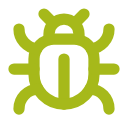
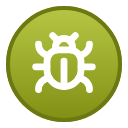
Deleted uploads in logs, type badges, card and F1 polish

diff --git a/src/events.ts b/src/events.ts
@@ -1,5 +1,7 @@
 import { report } from './ops.js';
-import { MessageType, Events, PermissionFlagsBits, type Client, type Message } from 'discord.js';
+import { AttachmentBuilder, MessageType, Events, PermissionFlagsBits, type Client, type EmbedBuilder, type Message } from 'discord.js';
+import { existsSync, mkdirSync, readdirSync, statSync, unlinkSync, writeFileSync } from 'node:fs';
+import { fileURLToPath } from 'node:url';
 import type { Store } from './db.js';
 import { log } from './modules/moderation.js';
 import { giveXp } from './modules/levels.js';
@@ -88,23 +90,33 @@ export function wireEvents(client: Client, store: Store) {
     void log(client, store, m.guild.id, card({ kind: 'logs', title, emoji, gif: 'off', fields: [{ name: '👤 Who', value: `<@${m.id}> · ${m.user.username}`, inline: true }, { name: '📍 Room', value: where, inline: true }] }), 'server');
   });
 
-  // messages are kept for three days on disk, a restart no longer means an edit or delete goes unlogged
+  // messages are kept for three days on disk, pictures and files too, so a restart or a deleted upload still gets logged
   client.on(Events.MessageCreate, (m) => {
-    if (m.guildId && !m.author.bot && m.content && logOn(store, m.guildId)) store.keepMessage(m.id, m.guildId, m.channelId, m.author.id, m.content);
+    if (!m.guildId || m.author.bot || (!m.content && !m.attachments.size) || !logOn(store, m.guildId)) return;
+    store.keepMessage(m.id, m.guildId, m.channelId, m.author.id, m.content ?? '');
+    if (m.attachments.size) void keepFiles(m.id, [...m.attachments.values()]).then((files) => { if (files.length) store.keepMessage(m.id, m.guildId!, m.channelId, m.author.id, m.content ?? '', files); });
   });
-  setInterval(() => store.dropOldMessages(3), 3_600_000).unref();
+  setInterval(() => { store.dropOldMessages(3); dropOldFiles(3); }, 3_600_000).unref();
+
+  const filesOf = (kept: { files: { name: string; path: string }[] } | undefined) => (kept?.files ?? []).filter((f) => existsSync(f.path)).map((f) => new AttachmentBuilder(f.path, { name: f.name }));
 
   client.on(Events.MessageDelete, (m) => {
     const kept = store.recallMessage(m.id);
     store.forgetMessage(m.id);
     const guildId = m.guildId ?? kept?.guild_id ?? null;
-    const content = m.content || kept?.content;
+    const content = m.content || kept?.content || '';
     const author = m.author?.id ?? kept?.author_id;
-    if (!logOn(store, guildId) || m.author?.bot || !content || !author) return;
-    void log(client, store, guildId!, card({
-      kind: 'logs', title: 'Message deleted', emoji: '', gif: 'off',
-      fields: [{ name: 'Author', value: `<@${author}>`, inline: true }, { name: 'Where', value: `<#${m.channelId}>`, inline: true }, { name: 'Sent', value: kept ? `<t:${Math.floor(kept.at / 1000)}:R>` : 'recently', inline: true }, { name: 'It said', value: content.slice(0, 1000), inline: false }],
-    }), 'server');
+    const files = filesOf(kept);
+    if (!logOn(store, guildId) || m.author?.bot || (!content && !files.length) || !author) return;
+    const e = card({
+      kind: 'logs', title: files.length && !content ? 'Upload deleted' : 'Message deleted', emoji: '', gif: 'off',
+      fields: [
+        { name: 'Author', value: `<@${author}>`, inline: true }, { name: 'Where', value: `<#${m.channelId}>`, inline: true }, { name: 'Sent', value: kept ? `<t:${Math.floor(kept.at / 1000)}:R>` : 'recently', inline: true },
+        ...(content ? [{ name: 'It said', value: content.slice(0, 1000), inline: false }] : []),
+        ...(files.length ? [{ name: files.length === 1 ? 'Attached' : `Attached · ${files.length}`, value: (kept?.files ?? []).map((f) => f.name).join('\n').slice(0, 1000), inline: false }] : []),
+      ],
+    });
+    void logWithFiles(client, store, guildId!, e, files);
   });
 
   client.on(Events.MessageBulkDelete, (msgs, ch) => {
@@ -114,7 +126,8 @@ export function wireEvents(client: Client, store: Store) {
       store.forgetMessage(m.id);
       const content = m.content || kept?.content;
       const author = m.author?.id ?? kept?.author_id;
-      if (content && author && !m.author?.bot) lines.push(`<@${author}>: ${content.replace(/\n/g, ' ').slice(0, 120)}`);
+      const n = kept?.files.length ?? m.attachments.size;
+      if ((content || n) && author && !m.author?.bot) lines.push(`<@${author}>: ${(content ?? '').replace(/\n/g, ' ').slice(0, 120)}${n ? ` · ${n} file${n === 1 ? '' : 's'}` : ''}`);
     }
     if (!lines.length || !logOn(store, ch.guildId)) return;
     void log(client, store, ch.guildId, card({ kind: 'logs', title: `${msgs.size} messages swept`, emoji: '', gif: 'off', body: `In <#${ch.id}>\n${lines.slice(0, 25).join('\n').slice(0, 3800)}${lines.length > 25 ? `\n-# and ${lines.length - 25} more` : ''}` }), 'server');
@@ -122,17 +135,24 @@ export function wireEvents(client: Client, store: Store) {
 
   client.on(Events.MessageUpdate, (old, m) => {
     const kept = store.recallMessage(m.id);
-    const before = old.content || kept?.content;
+    const before = old.content || kept?.content || '';
     const guildId = m.guildId ?? kept?.guild_id ?? null;
-    if (m.content && guildId && !m.author?.bot) store.keepMessage(m.id, guildId, m.channelId, m.author?.id ?? kept?.author_id ?? '', m.content);
-    if (!logOn(store, guildId) || m.author?.bot || !before || before === m.content) return;
-    void log(client, store, guildId!, card({
-      kind: 'logs', title: 'Message edited', emoji: '', gif: 'off',
+    if (!guildId || m.author?.bot) return;
+    // files taken off in the edit: anything kept that the message no longer has
+    const now = new Set([...m.attachments.values()].map((a) => a.name));
+    const gone = (kept?.files ?? []).filter((f) => !now.has(f.name));
+    store.keepMessage(m.id, guildId, m.channelId, m.author?.id ?? kept?.author_id ?? '', m.content ?? '', (kept?.files ?? []).filter((f) => now.has(f.name)));
+    const textChanged = !!before && before !== (m.content ?? '');
+    if (!logOn(store, guildId) || (!textChanged && !gone.length)) return;
+    const e = card({
+      kind: 'logs', title: textChanged ? 'Message edited' : 'Upload removed in an edit', emoji: '', gif: 'off',
       fields: [
         { name: 'Author', value: `<@${m.author?.id ?? kept?.author_id}>`, inline: true }, { name: 'Where', value: `[jump](${m.url})`, inline: true },
-        { name: 'Before', value: before.slice(0, 1000), inline: false }, { name: 'After', value: (m.content ?? '').slice(0, 1000) || '*empty*', inline: false },
+        ...(textChanged ? [{ name: 'Before', value: before.slice(0, 1000), inline: false }, { name: 'After', value: (m.content ?? '').slice(0, 1000) || '*empty*', inline: false }] : []),
+        ...(gone.length ? [{ name: 'Taken off', value: gone.map((f) => f.name).join('\n').slice(0, 1000), inline: false }] : []),
       ],
-    }), 'server');
+    });
+    void logWithFiles(client, store, guildId, e, gone.filter((f) => existsSync(f.path)).map((f) => new AttachmentBuilder(f.path, { name: f.name })));
   });
 
   client.on(Events.GuildBanAdd, (b) => {
@@ -141,4 +161,36 @@ export function wireEvents(client: Client, store: Store) {
   client.on(Events.GuildBanRemove, (b) => {
     if (logOn(store, b.guild.id)) void log(client, store, b.guild.id, card({ kind: 'unban', title: 'Unbanned', emoji: '🕊', gif: 'off', fields: [{ name: '👤 Who', value: `${b.user.username} (\`${b.user.id}\`)`, inline: true }] }));
   });
+}
+
+// copies of what people upload, kept three days so a deleted picture can still be shown in the log
+const fileDir = fileURLToPath(new URL('../cache/uploads/', import.meta.url));
+const MAX_FILE = 8 * 1024 * 1024;
+async function keepFiles(id: string, list: { url: string; name: string; size: number }[]) {
+  mkdirSync(fileDir, { recursive: true });
+  const out: { name: string; path: string }[] = [];
+  for (const [i, a] of list.slice(0, 4).entries()) {
+    if (a.size > MAX_FILE) continue;
+    const res = await fetch(a.url).catch(() => null);
+    if (!res?.ok) continue;
+    const path = `${fileDir}${id}-${i}-${a.name.replace(/[^\w.-]/g, '_').slice(-60)}`;
+    writeFileSync(path, Buffer.from(await res.arrayBuffer()));
+    out.push({ name: a.name, path });
+  }
+  return out;
+}
+function dropOldFiles(days: number) {
+  if (!existsSync(fileDir)) return;
+  const cutoff = Date.now() - days * 86_400_000;
+  for (const f of readdirSync(fileDir)) { try { if (statSync(`${fileDir}${f}`).mtimeMs < cutoff) unlinkSync(`${fileDir}${f}`); } catch { /* gone already */ } }
+}
+// the log entry with the kept files attached, the first picture shown in the card itself
+async function logWithFiles(client: Client, store: Store, guildId: string, e: EmbedBuilder, files: AttachmentBuilder[]) {
+  if (!files.length) return log(client, store, guildId, e, 'server');
+  const id = store.getKv(`serverlog:${guildId}`) ?? store.guild(guildId).mod.logChannel;
+  const ch = id ? await client.channels.fetch(id).catch(() => null) : null;
+  if (!ch?.isSendable()) return;
+  const pic = files.find((f) => /\.(png|jpe?g|gif|webp)$/i.test(f.name ?? ''));
+  if (pic) e.setImage(`attachment://${pic.name}`);
+  await ch.send({ embeds: [e], files, allowedMentions: { parse: [] } }).catch(() => {});
 }

diff --git a/src/features/rankcard.ts b/src/features/rankcard.ts
@@ -27,6 +27,8 @@ export interface RankCardData {
   need: number;
   nextRank: string | null;
   boost: number;
+  // what the next rank opens up in chat, like "threads, polls"
+  nextUnlock?: string | null;
 }
 
 // cuts long names with an ellipsis so they never run into the stats
@@ -156,8 +158,26 @@ export async function rankCard(d: RankCardData): Promise<Buffer> {
   ctx.fillStyle = '#c9ccd4';
   ctx.fillText(`${short(d.into)} / ${short(d.need)} xp  ·  ${short(d.totalXp)} total`, left, by + bh + 32);
   ctx.textAlign = 'right';
-  ctx.fillStyle = d.boost > 1 ? '#f0b85a' : '#8b8f9a';
-  ctx.fillText(d.boost > 1 ? `${+d.boost.toFixed(2)}x boost active` : d.nextRank ? `next: ${d.nextRank}` : 'top of the Agency', right, by + bh + 32);
+  ctx.fillStyle = SAND;
+  ctx.fillText(d.nextRank ? `next: ${d.nextRank}` : 'top of the Agency', right, by + bh + 32);
+  // what the next rank unlocks, quietly underneath
+  if (d.nextRank && d.nextUnlock) {
+    ctx.font = '400 15px "Texz Sans", sans-serif';
+    ctx.fillStyle = '#8b8f9a';
+    ctx.fillText(fit(ctx, `unlocks ${d.nextUnlock}`, bw * 0.6), right, by + bh + 56);
+  }
+  // an xp boost shows as a pill by the agency mark
+  if (d.boost > 1) {
+    ctx.font = '700 14px "Texz Sans Bold", sans-serif';
+    const tag = `${+d.boost.toFixed(2)}× XP BOOST`;
+    const tw = ctx.measureText(tag).width + 24;
+    rounded(ctx, right - tw, 18, tw, 26, 13);
+    ctx.fillStyle = 'rgba(240,184,90,0.16)';
+    ctx.fill();
+    ctx.fillStyle = '#f0b85a';
+    ctx.textAlign = 'center';
+    ctx.fillText(tag, right - tw / 2, 36);
+  }
 
   // a quiet signature in the corner
   ctx.textAlign = 'left';
@@ -192,6 +212,8 @@ export interface ProfileData {
   medalCount?: { won: number; total: number };
   // favourite team, club, anime and manga drawn as glowing tiles with their logo or cover
   favs?: Fav[];
+  // level progress, a thin bar under the bio
+  progress?: { into: number; need: number; next: string | null };
 }
 
 export interface Fav { label: string; name: string; image?: string | null; color?: string | null; kind: 'badge' | 'crest' | 'cover' }
@@ -360,6 +382,30 @@ export async function profileCard(d: ProfileData): Promise<Buffer> {
   ctx.font = '400 21px "Texz Sans", sans-serif';
   const lines = wrap(ctx, d.bio || 'No bio yet. A person of mystery.', right - left, 3);
   lines.forEach((l, i) => ctx.fillText(l, left, 214 + i * 30));
+
+  // how far into the level, right under the bio
+  if (d.progress && d.progress.need) {
+    const py = Math.min(300, 214 + lines.length * 30 + 6);
+    const pw = right - left;
+    rounded(ctx, left, py, pw, 10, 5);
+    ctx.fillStyle = '#262933';
+    ctx.fill();
+    const pct = Math.min(1, d.progress.into / d.progress.need);
+    if (pct > 0) {
+      const g = ctx.createLinearGradient(left, 0, left + pw, 0);
+      g.addColorStop(0, '#9c8358');
+      g.addColorStop(1, SAND);
+      rounded(ctx, left, py, Math.max(10, pw * pct), 10, 5);
+      ctx.fillStyle = g;
+      ctx.fill();
+    }
+    ctx.font = '400 15px "Texz Sans", sans-serif';
+    ctx.fillStyle = '#8b8f9a';
+    ctx.textAlign = 'left';
+    ctx.fillText(`${short(d.progress.into)} / ${short(d.progress.need)} xp to the next level`, left, py + 28);
+    if (d.progress.next) { ctx.textAlign = 'right'; ctx.fillStyle = SAND; ctx.fillText(fit(ctx, `next rank: ${d.progress.next}`, pw * 0.5), right, py + 28); }
+    ctx.textAlign = 'left';
+  }
 
   // chips along the bottom
   let x = 50;

diff --git a/src/db.ts b/src/db.ts
@@ -341,6 +341,7 @@ export class Store {
         channel_id TEXT NOT NULL,
         author_id TEXT NOT NULL,
         content TEXT NOT NULL,
+        files TEXT NOT NULL DEFAULT '[]',
         at INTEGER NOT NULL
       );
       CREATE INDEX IF NOT EXISTS recent_at ON recent_messages(at);
@@ -394,6 +395,8 @@ export class Store {
         PRIMARY KEY (user_id, what)
       );
     `);
+    // older copies of the message table have no files column
+    try { this.db.exec("ALTER TABLE recent_messages ADD COLUMN files TEXT NOT NULL DEFAULT '[]'"); } catch { /* already there */ }
     // warnings used to live in their own table, they're cases now
     const old = this.db.prepare("SELECT name FROM sqlite_master WHERE type = 'table' AND name = 'warnings'").get();
     if (old) {
@@ -702,11 +705,15 @@ export class Store {
   // ---------- server stats ----------
 
   // the last few days of messages, so an edit or delete can still be logged after a restart wiped the cache
-  keepMessage(id: string, guildId: string, channelId: string, authorId: string, content: string) {
-    this.db.prepare('INSERT OR REPLACE INTO recent_messages (id, guild_id, channel_id, author_id, content, at) VALUES (?, ?, ?, ?, ?, ?)').run(id, guildId, channelId, authorId, content.slice(0, 2000), Date.now());
+  // files: what was attached, by name, with the copy kept on disk
+  keepMessage(id: string, guildId: string, channelId: string, authorId: string, content: string, files: { name: string; path: string }[] = []) {
+    const had = this.recallMessage(id);
+    this.db.prepare('INSERT OR REPLACE INTO recent_messages (id, guild_id, channel_id, author_id, content, files, at) VALUES (?, ?, ?, ?, ?, ?, ?)')
+      .run(id, guildId, channelId, authorId, content.slice(0, 2000), JSON.stringify(files.length || !had ? files : had.files), had?.at ?? Date.now());
   }
-  recallMessage(id: string): { guild_id: string; channel_id: string; author_id: string; content: string; at: number } | undefined {
-    return this.db.prepare('SELECT guild_id, channel_id, author_id, content, at FROM recent_messages WHERE id = ?').get(id) as never;
+  recallMessage(id: string): { guild_id: string; channel_id: string; author_id: string; content: string; files: { name: string; path: string }[]; at: number } | undefined {
+    const r = this.db.prepare('SELECT guild_id, channel_id, author_id, content, files, at FROM recent_messages WHERE id = ?').get(id) as { files: string } | undefined;
+    return r ? { ...r, files: JSON.parse(r.files || '[]') } as never : undefined;
   }
   forgetMessage(id: string) { this.db.prepare('DELETE FROM recent_messages WHERE id = ?').run(id); }
   dropOldMessages(days = 3) { return Number(this.db.prepare('DELETE FROM recent_messages WHERE at < ?').run(Date.now() - days * 86_400_000).changes); }

diff --git a/src/modules/profile.ts b/src/modules/profile.ts
@@ -8,7 +8,7 @@ import type { Store } from '../db.js';
 import type { Command } from '../core/module.js';
 import { card } from '../theme.js';
 import { fetchAvatar, profileCard, type Fav } from '../features/rankcard.js';
-import { levelOf, rankFor } from './levels.js';
+import { levelOf, rankFor, ranks } from './levels.js';
 import { toldHere, fmtDate } from './birthdays.js';
 import { bondsOf } from './actions.js';
 import { currentSeason, searchMedia, titleOf, topMedia, type Media } from '../anime/anilist.js';
@@ -139,9 +139,13 @@ export async function drawProfile(store: Store, id: string, guildId: string | nu
   const show = new Set(p.show);
   const chips: { label: string; value: string; color?: string }[] = [];
   let title = 'Agency visitor';
+  let progress: { into: number; need: number; next: string | null } | undefined;
   if (guildId && store.rules(guildId, 'levels').enabled) {
-    const l = levelOf(store.xpOf(guildId, id).xp).level;
+    const lv = levelOf(store.xpOf(guildId, id).xp);
+    const l = lv.level;
     title = rankFor(l).name;
+    const nextRank = ranks.find((r) => r.at > l);
+    progress = { into: lv.into, need: lv.need, next: nextRank ? `${nextRank.name} at ${nextRank.at}` : null };
     if (show.has('level')) chips.push({ label: 'Level', value: String(l) });
   }
   if (show.has('yen') && guildId && store.rules(guildId, 'economy').enabled) chips.push({ label: 'Yen', value: `¥${store.wallet(guildId, id).yen.toLocaleString()}` });
@@ -157,7 +161,7 @@ export async function drawProfile(store: Store, id: string, guildId: string | nu
   const have = guildId ? badgesOf(store, guildId, id) : [];
   if (show.has('done') && done) chips.push({ label: 'Anime done', value: String(done) });
   return profileCard({
-    name: m?.displayName ?? 'Agent', handle: m?.user.username ?? id, title, bio: p.bio ?? null, chips, accent: p.color, favs,
+    name: m?.displayName ?? 'Agent', handle: m?.user.username ?? id, title, bio: p.bio ?? null, chips, accent: p.color, favs, progress,
     medals: guildId ? shownOf(store, guildId, id, tierOf).map((x) => ({ id: x, earned: true, name: BADGES.find((b) => b.id === x)?.name ?? x })) : undefined,
     medalCount: guildId ? { won: have.length, total: BADGES.length } : undefined,
     avatar: m ? await fetchAvatar(m.displayAvatarURL({ extension: 'png', forceStatic: true, size: 256 })) : null,

diff --git a/src/core/glance.ts b/src/core/glance.ts
@@ -12,7 +12,7 @@ export const menu: Record<string, [string, string, string?]> = {
   'onthisday~topic=f1': ['📅', 'On this day in F1'], 'onthisday~topic=football': ['📅', 'On this day in football'], 'onthisday~topic=anime': ['📅', 'On this day in anime'],
   mission: ['🕵', 'Today\'s mission', 'A daily challenge for bonus yen'],
   spawns: ['🔎', 'Claim help status', 'What Texz reads, the helper switch and your rare and type pings'], pokemon: ['🧩', 'Solve a hint', 'Type the hint, get the names that fit'],
-  pings: ['🔔', 'Pings and reminders', 'Every ping and reminder Texz can send you, in one place'], remind: ['⏰', 'Remind me', 'A one-off reminder, like 2h drink water'], reminders: ['🎛', 'OwO reminders', 'Which OwO timers ping you, where and when'],
+  pings: ['🔔', 'Pings and reminders', 'Every ping and reminder Texz can send you, in one place'], remind: ['⏰', 'Remind me', 'Plain words: in 2h stretch, at 9pm call mum, tomorrow 8am gym'], reminders: ['🎛', 'OwO timers and timezone', 'Which OwO timers ping you, where, and your timezone'],
   quote: ['🖼', 'Make it a quote', 'Frame a message as a picture, reply with tz quote or paste a link'],
   'wish.list': ['💝', 'My Shoob wishlist'], 'wish.add': ['➕', 'Wish for a character'], 'wish.remove': ['➖', 'Drop a wish'],
   dex: ['📕', 'Server Pokédex', 'What\'s been caught here and what\'s missing'], race: ['🏃', 'Catch race', 'Who catches the most this week'],

diff --git a/src/modules/owo.ts b/src/modules/owo.ts
@@ -339,13 +339,14 @@ const leaderboard: Command = {
 const remind: Command = {
   name: 'remind',
   group: 'you',
-  data: new SlashCommandBuilder().setName('remind').setDescription('Your reminders, or add one straight away')
-    .addIntegerOption((o) => o.setName('minutes').setDescription('Remind me in this many minutes').setMinValue(1).setMaxValue(10080))
+  data: new SlashCommandBuilder().setName('remind').setDescription('Your reminders, or add one in plain words: in 2h, at 9pm, tomorrow 8am')
+    .addStringOption((o) => o.setName('when').setDescription('When: 30, 2h, 1h30m, at 9pm, tomorrow 8am'))
     .addStringOption((o) => o.setName('note').setDescription('What about').setMaxLength(200)).toJSON(),
-  text: { aliases: ['r'], args: ['minutes', 'note'] },
+  text: { aliases: ['r', 'remindme'], args: ['when', 'note'] },
+  example: 'me in 2h to drink water',
   run: (ctx, store) => {
     // plain words work: "tz remind me in 2h to drink water", "tz r 30 huntbot", "tz r at 9pm call mum", "tz r tomorrow 8am gym"
-    const words = `${ctx.str('minutes') ?? ''} ${ctx.str('note') ?? ''}`.trim();
+    const words = `${ctx.str('when') ?? ''} ${ctx.str('note') ?? ''}`.trim();
     const when = whenOf(words, store.settings(ctx.userId).timezone);
     if (when && when.note) {
       const at = new Date(Math.min(when.at, Date.now() + 30 * 86_400_000));

diff --git a/src/core/ctx.ts b/src/core/ctx.ts
@@ -140,7 +140,7 @@ export function fromComponent(i: ButtonInteraction | StringSelectMenuInteraction
           if (target !== 'help') nav.addComponents(new ButtonBuilder().setCustomId(`nav|help|owner=${opts.owner ?? i.user.id}`).setLabel('All dashboards').setEmoji('🏠').setStyle(ButtonStyle.Secondary));
           rows.push(nav);
         }
-        const page = { content: n.content ?? null, embeds: n.embeds, components: rows, ...(n.files.length ? { files: n.files } : { attachments: [] }) };
+        const page = { content: n.content ?? null, embeds: n.embeds, components: rows, attachments: [], ...(n.files.length ? { files: n.files } : {}) };
         if (i.replied || i.deferred) return i.editReply(page);
         if (i.isModalSubmit()) return i.isFromMessage() ? i.update(page) : (i as ModalSubmitInteraction).reply({ content: n.content, embeds: n.embeds, components: rows, files: n.files, flags: MessageFlags.Ephemeral });
         return i.update(page);

diff --git a/src/modules/levels.ts b/src/modules/levels.ts
@@ -255,7 +255,8 @@ const rank: Command = {
       name: m?.displayName ?? 'Agent', handle: m?.user.username ?? id, level: l.level, rank: r.name,
       avatar: m ? await fetchAvatar(m.displayAvatarURL({ extension: 'png', forceStatic: true, size: 256 })) : null,
       position: store.xpPosition(ctx.guild.id, xp), totalXp: xp, into: l.into, need: l.need,
-      nextRank: next ? `${next.name} at ${next.at}` : null, boost: boost.total,
+      nextRank: next ? `${next.name} at level ${next.at}` : null, boost: boost.total,
+      nextUnlock: next ? (unlocks[next.name] ?? []).map(([, l]) => l).join(', ') || null : null,
     });
     // perks and the leaderboard used to be their own commands, now they hang off the rank card
     const nav = (cmd: string, emoji: string, label: string) => new ButtonBuilder().setCustomId(`nav|${cmd}|owner=${ctx.userId}`).setEmoji(emoji).setLabel(label).setStyle(ButtonStyle.Secondary);

diff --git a/src/modules/bulletins.ts b/src/modules/bulletins.ts
@@ -623,7 +623,9 @@ const f1: Command = {
   text: { aliases: ['gp'], args: ['view'] },
   run: async (ctx, store) => {
     const view = (ctx.str('view') ?? 'next').toLowerCase();
-    const site = row(link(SITE, 'Parc Fermé'));
+    // the three main pages switch in place, with the site link on the end
+    const tab = (v: string, label: string) => new ButtonBuilder().setCustomId(`nav|f1|owner=${ctx.userId},view=${v}`).setLabel(label).setStyle(view.startsWith(v.slice(0, 4)) ? ButtonStyle.Primary : ButtonStyle.Secondary).setDisabled(view.startsWith(v.slice(0, 4)));
+    const site = row(tab('next', 'Next race'), tab('standings', 'Standings'), tab('last', 'Last race'), link(SITE, 'Parc Fermé'));
     try {
       if (view.startsWith('quiz')) {
         const r = await quizRound(ctx.channelId, !!ctx.guildId && store.rules(ctx.guildId, 'economy').enabled);

diff --git a/src/modules/server.ts b/src/modules/server.ts
@@ -212,7 +212,7 @@ const announce: Command = {
     const ch = await ctx.guild.channels.fetch(chId).catch(() => null);
     if (!ch?.isSendable()) return ctx.reply('I can\'t post in that channel.');
     const id = store.addSchedule({ guild_id: ctx.guild.id, channel_id: ch.id, text, next_at: at, every_ms: repeats[repeat] ?? 0, by_id: ctx.userId });
-    return ctx.reply(`🗓 Post #${id} goes out in <#${ch.id}> <t:${unix(at)}:R>${repeat !== 'once' ? `, then ${repeat}` : ''}. Times like 18:30 use your timezone from \`tz settings\`.`);
+    return ctx.reply(`🗓 Post #${id} goes out in <#${ch.id}> <t:${unix(at)}:R>${repeat !== 'once' ? `, then ${repeat}` : ''}. Times like 18:30 use your timezone, set in \`tz reminders\`.`);
   },
 };
 

diff --git a/src/modules/birthdays.ts b/src/modules/birthdays.ts
@@ -121,7 +121,7 @@ const birthday: Command = {
       store.setBirthday(ctx.userId, date.month, date.day);
       if (ctx.guildId) store.setKv(`bdayin:${ctx.guildId}:${ctx.userId}`, '1');
       const tz = store.settings(ctx.userId).timezone;
-      return ctx.reply({ content: `🎂 **${fmtDate(date.month, date.day)}**, noted. ${say('birthdaySet')}\n-# I go by your timezone (${tz}), \`tz remind\` → Settings changes it.`, temp: true });
+      return ctx.reply({ content: `🎂 **${fmtDate(date.month, date.day)}**, noted. ${say('birthdaySet')}\n-# I go by your timezone (${tz}), \`tz reminders\` changes it.`, temp: true });
     }
     if (sub === 'remove') {
       const had = toldHere(store, ctx.guildId, ctx.userId);

diff --git a/src/modules/anime.ts b/src/modules/anime.ts
@@ -322,8 +322,10 @@ const airing: Command = {
 const daily: Command = {
   name: 'today',
   group: 'anime',
-  data: new SlashCommandBuilder().setName('today').setDescription('Today\'s character of the day').toJSON(),
-  text: { aliases: ['cotd'] },
+  // "today" alone reads like today's episodes, so the menus call it what it is
+  as: 'cotd',
+  data: new SlashCommandBuilder().setName('today').setDescription('The anime character of the day').toJSON(),
+  text: { aliases: ['cotd', 'characteroftheday'] },
   run: async (ctx) => {
     const c = await characterOfDay().catch(() => null);
     if (!c) return ctx.reply('AniList didn\'t answer, try again in a moment.');
